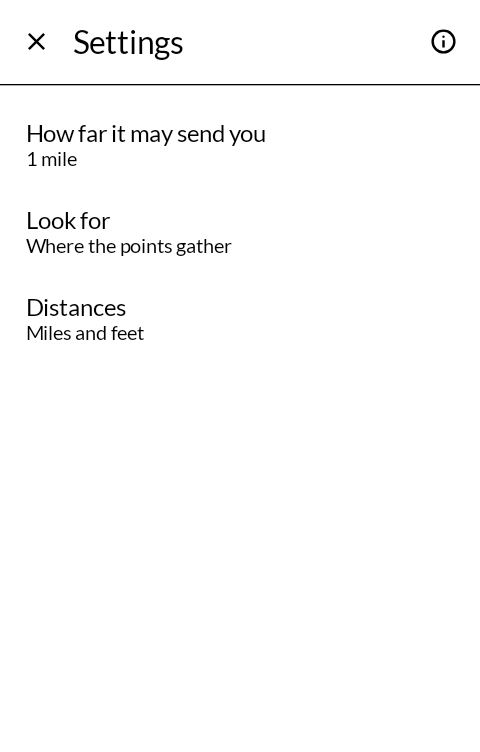
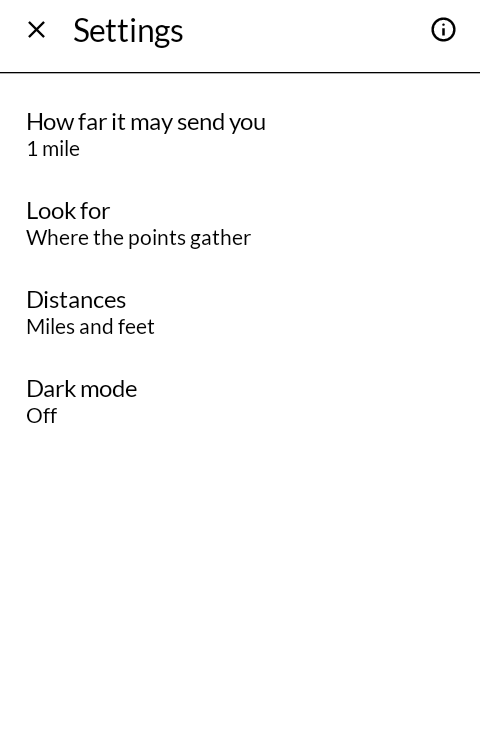
README: four settings, Dark mode among them; Settings and About shots retaken

diff --git a/README.md b/README.md
@@ -15,7 +15,7 @@ already ships with.
 | | |
 |---|---|
 | ![Somewhere to go](screenshots/1-go.png) | ![A walk, and how much to trust it](screenshots/2-walk.png) |
-| ![Three settings](screenshots/3-settings.png) | ![What it does and does not claim](screenshots/4-about.png) |
+| ![Settings](screenshots/3-settings.png) | ![What it does and does not claim](screenshots/4-about.png) |
 
 ## What it does
 
@@ -30,7 +30,9 @@ already ships with.
   runs come back somewhere ordinary, and it says so rather than dressing the answer up.
 - Says how good the fix under it is, and how old, because a walk scattered around where the
   phone was twenty minutes ago is a different walk.
-- Walks of ¼ mile to 5 miles, or 500 m to 10 km. Two words of settings otherwise.
+- Walks of ¼ mile to 5 miles, or 500 m to 10 km. Four settings in all: how far, where the
+  points gather or thin out, miles or kilometers, and dark mode, which follows the phone's dark
+  setting unless you switch it.
 
 ## A hundred years of this
 
